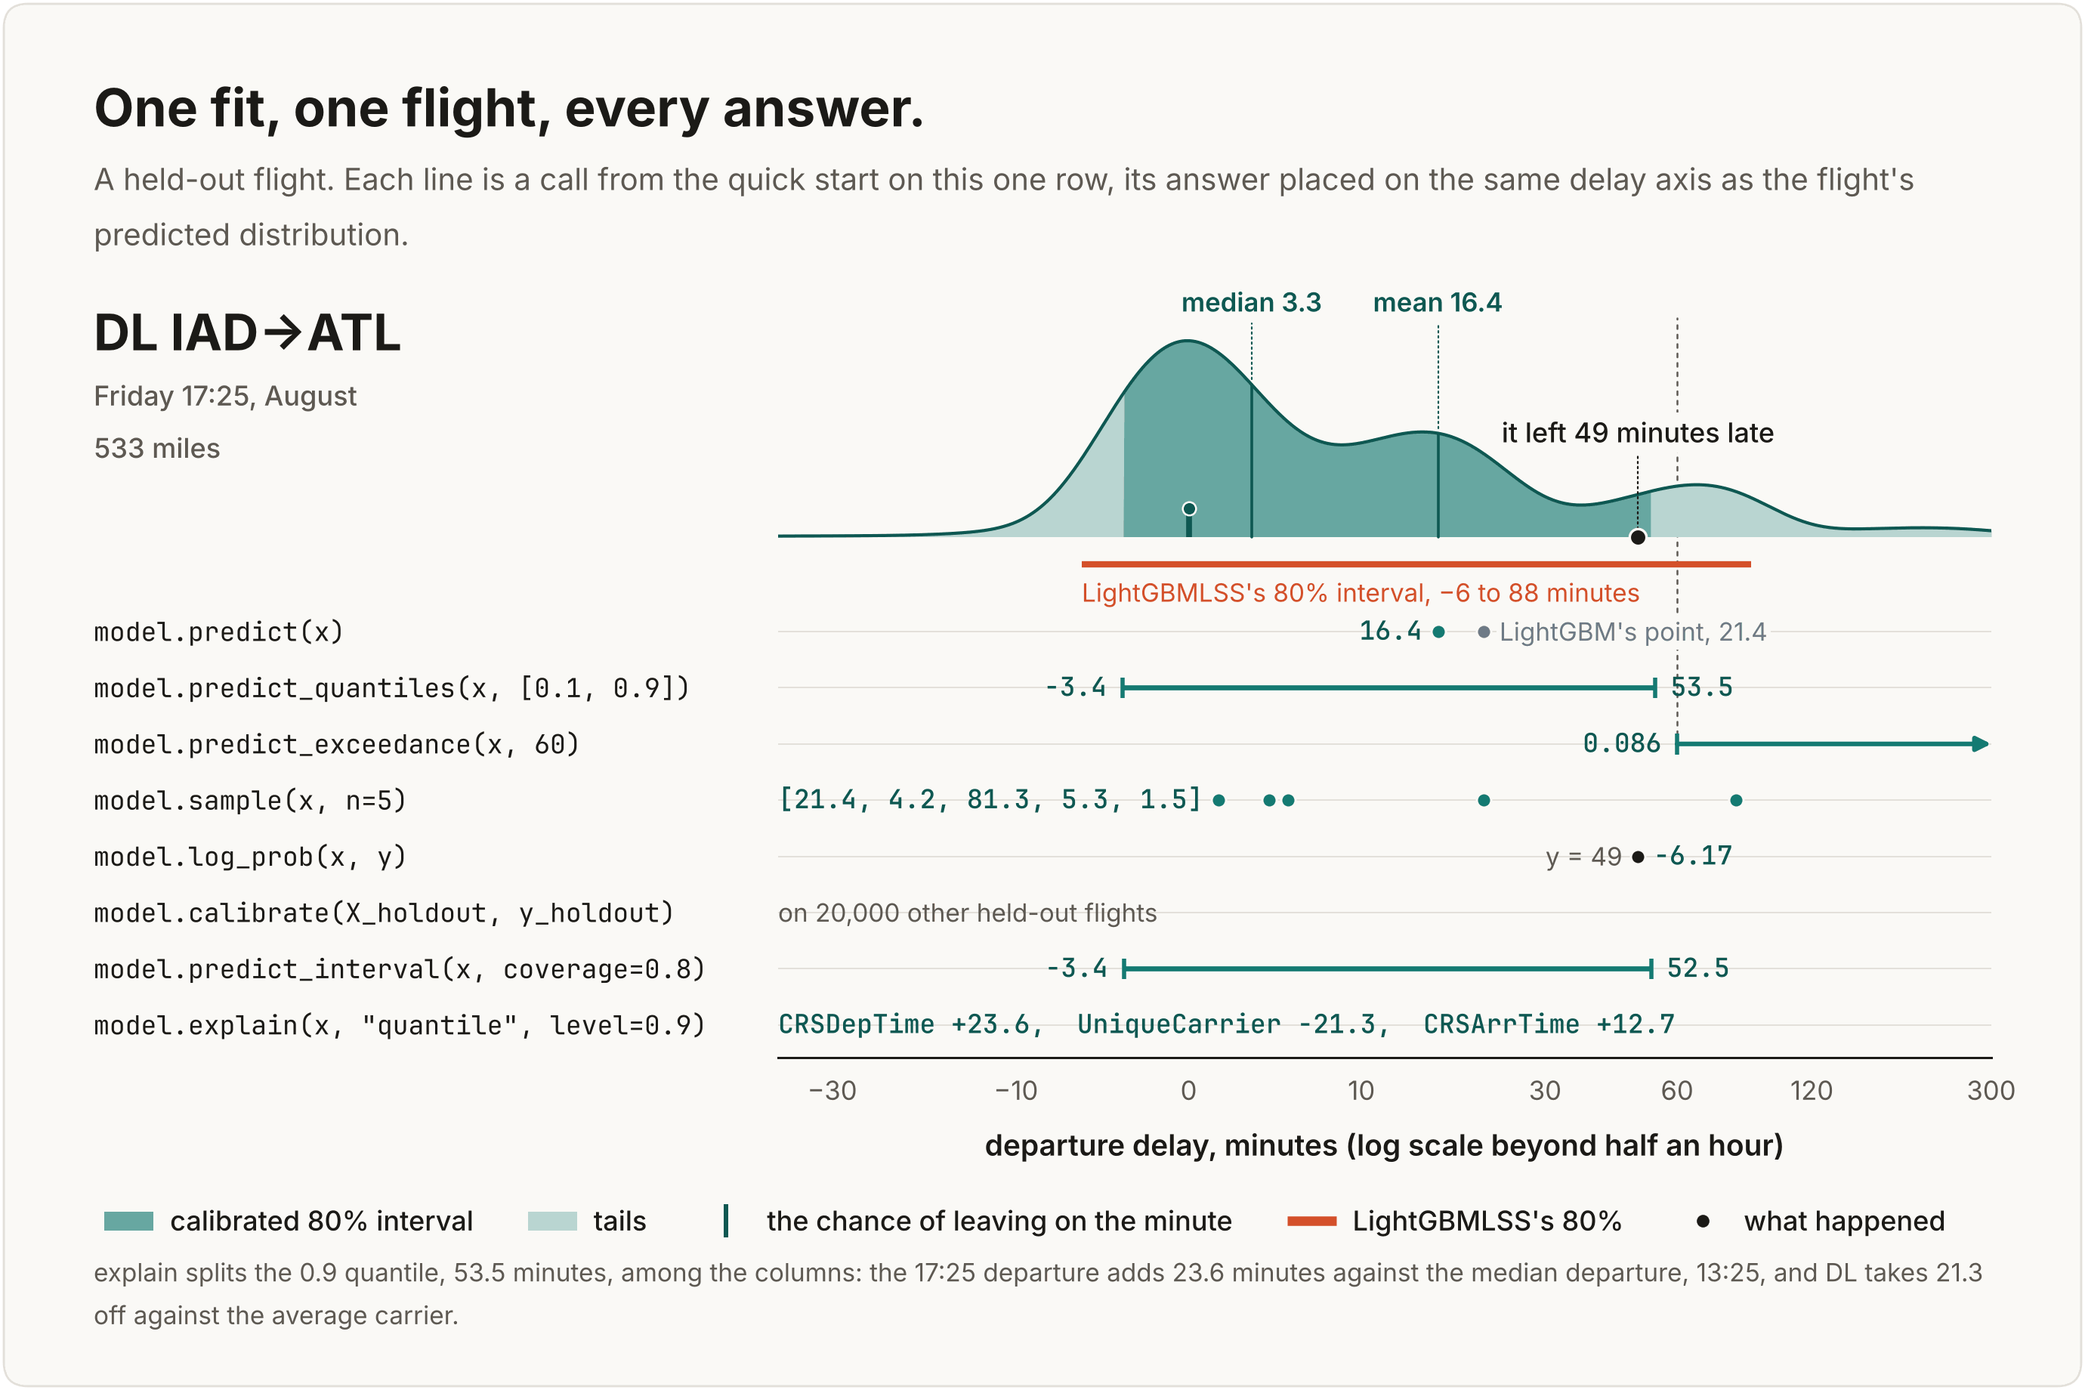
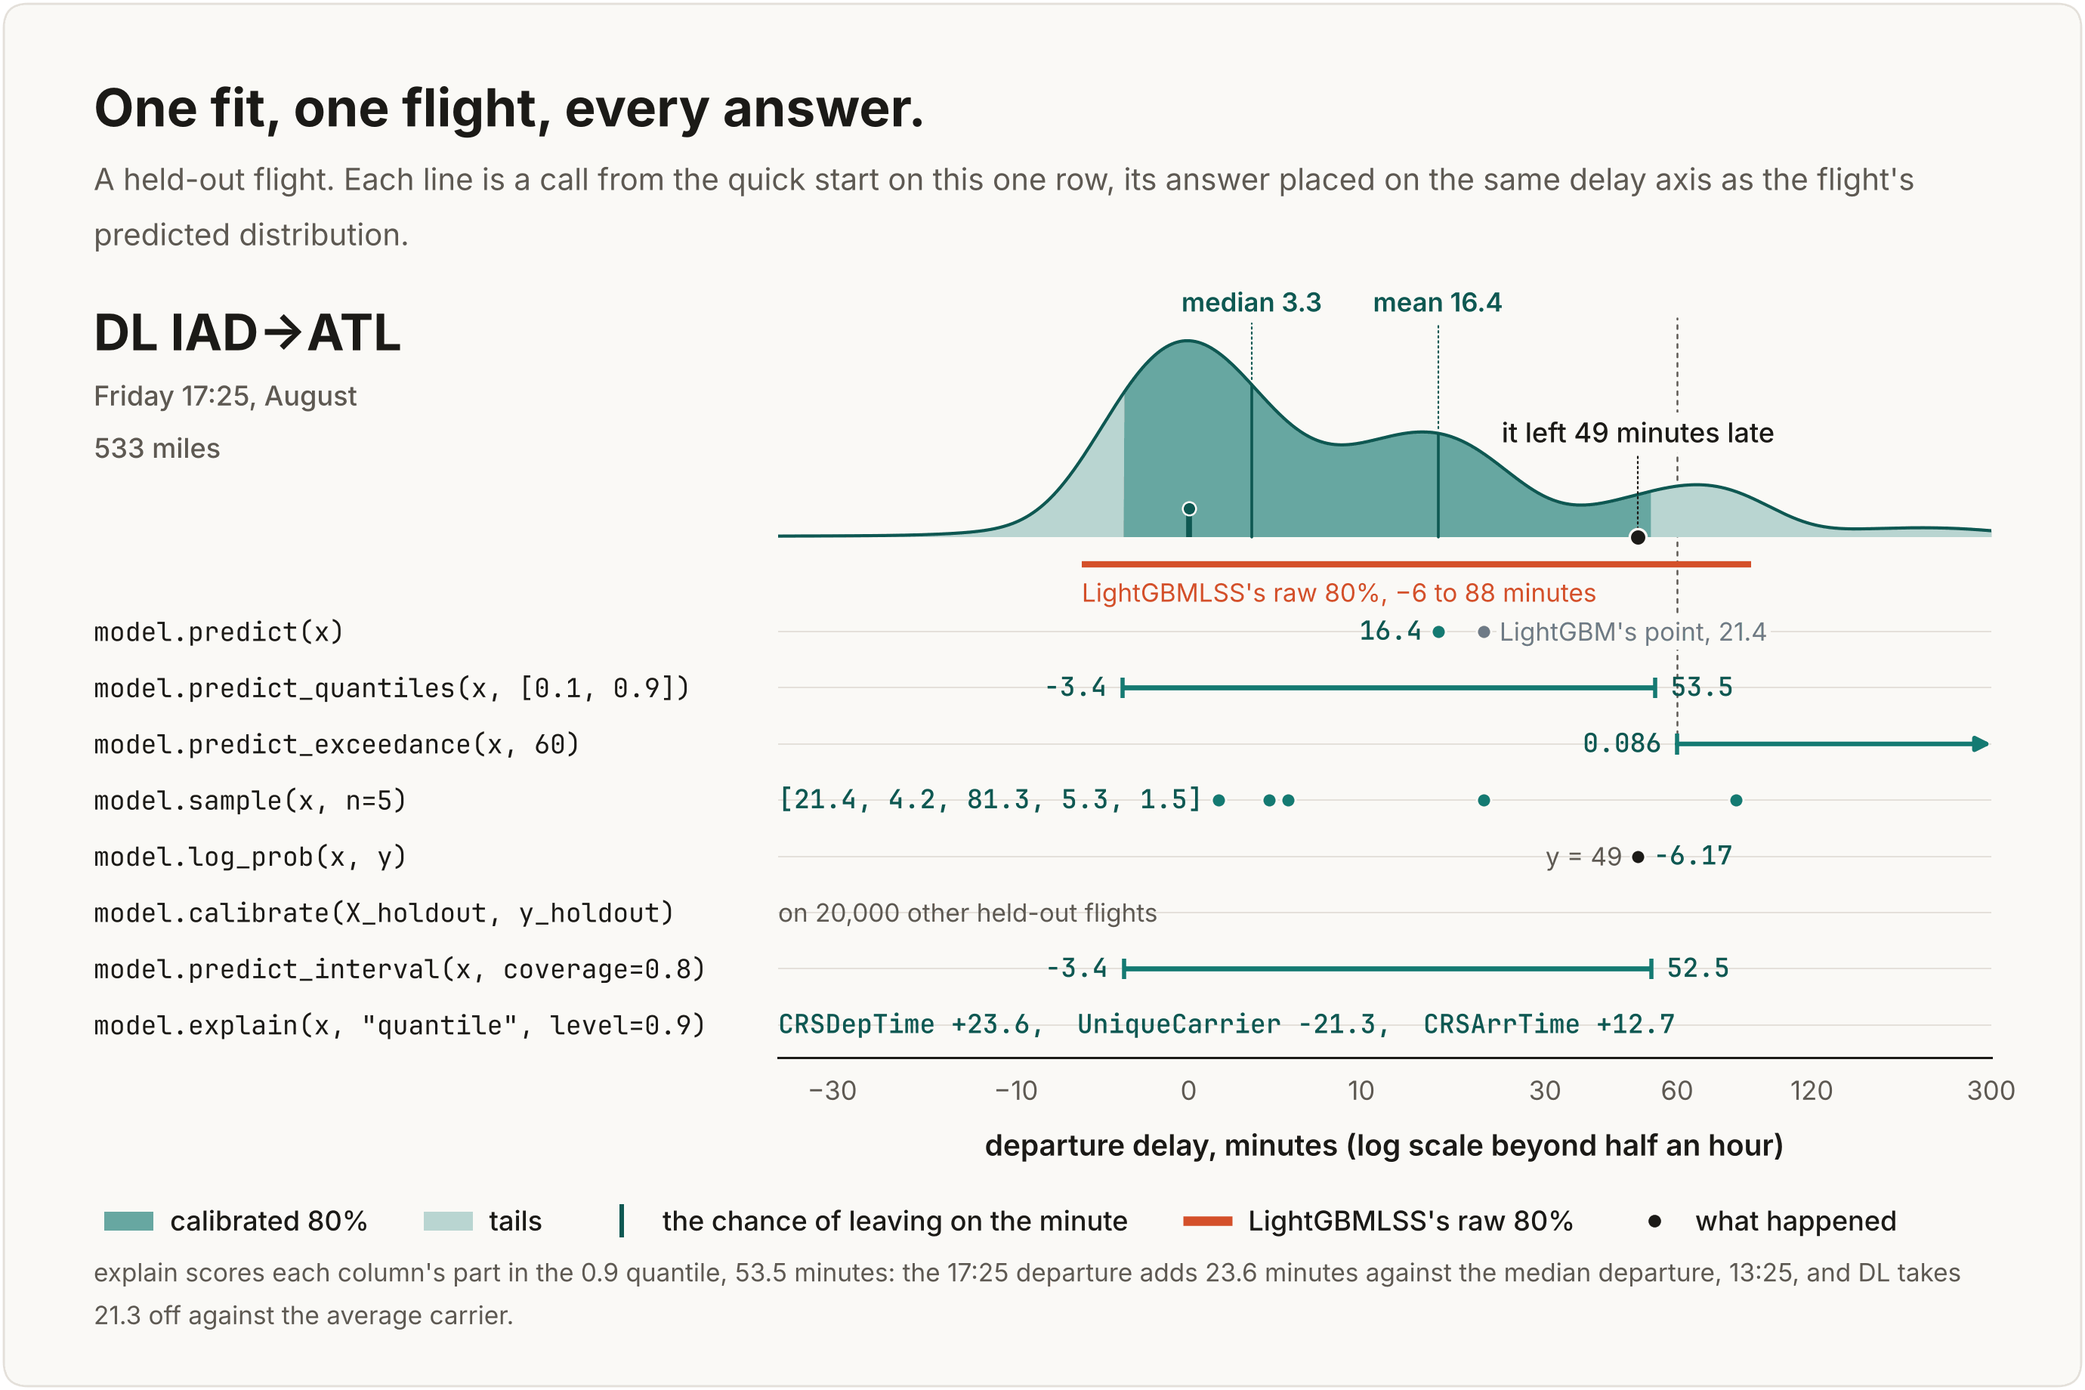
README hero, card, and scoreboard: review fixes
- Hero: the subtitle names the years (1987 to 2008); the footer only says
  where the scores come from, so the caption carries each number once.
- One-flight card: LightGBMLSS's interval is marked raw beside Ashlar's
  calibrated one; the explain footer no longer says the columns split the
  quantile (a categorical column's part is occlusion, outside the sum).
- Scoreboard: the footer states the tie rule (one split under 0.5% is grey)
  and drops the unqualified speed line.
- Large tables: LightGBMLSS's Gaussian and Student-t on release years and
  Zurich; a dagger marks seconds from seed 0's shared-laptop runs, and the
  intro gives the thread counts, so times compare only between unmarked rows.

Claude-Session: https://claude.ai/code/session_01Ut1RAi6KqssJKqes3JJ4ZU

Changed region(s): [[0.0312, 0.8674, 0.9348, 0.9603], [0.6232, 0.4027, 0.779, 0.4337]]

diff --git a/examples/readme/hero_flights.py b/examples/readme/hero_flights.py
@@ -780,7 +780,11 @@ def legend(fig, k, items, *, line: int):
 
 
 def p60_errors(bins, least: int = 1000) -> float:
-    """The largest gap, in points, between predicted and observed P(delay > 60) over bins of ``least`` flights."""
+    """The largest gap, in points, between predicted and observed P(delay > 60) over bins of ``least`` flights.
+
+    The README's "within 0.6 points ... against 8.3": ``p60_errors(summary["scores"]["ashlar"]["p60_bins"])``
+    and ``p60_errors(lightgbmlss["p60_bins"])``.
+    """
     return max(abs(b["predicted"] - b["observed"]) * 100 for b in bins if b["flights"] >= least)
 
 
@@ -788,11 +792,9 @@ def draw(folder: Path = ARTIFACTS) -> None:
     import style as k
 
     summary, pool, _card = load(folder)
-    other, theirs = load_baseline(folder)
+    other, _ = load_baseline(folder)
     if not np.array_equal(other["row"], pool["row"]):
         raise SystemExit("lightgbmlss.npz is not in pool.npz's order: rerun the baseline stage")
-    ours = summary["scores"]["ashlar"]
-    exact = ours["exact_quantiles"]  # the drawn 80% is predict_quantiles' 0.1 to 0.9, as LightGBMLSS's is
     picks = pick_ridges(pool)
     u = np.linspace(warp(X_LO), warp(X_HI), 1200)
     densities = np.stack([warped_density(pool, i, u) for i in picks])
@@ -801,7 +803,8 @@ def draw(folder: Path = ARTIFACTS) -> None:
 
     fig = k.card(
         "Every flight gets its own distribution.",
-        f"Airline delay: {summary['training_rows'] + summary['test_rows']:,} US flights, schedule only, no weather. "
+        f"Airline delay: {summary['training_rows'] + summary['test_rows']:,} US flights from 1987 to 2008, schedule "
+        "only, no weather. "
         "Each ridge is one held-out flight's predicted departure delay from a single ASRRegressor(task=\"mixture\") "
         "fit, its central 80% solid. Under it, the 80% interval of LightGBMLSS's mixture of three normals for the "
         "same flight, the best tree distribution on this table, and the delay that happened.",
@@ -861,15 +864,9 @@ def draw(folder: Path = ARTIFACTS) -> None:
     legend(fig, k, [("patch", solid, "Ashlar's central 80%"), ("pale", k.TEAL_PALE, "its tails"),
                     ("needle", k.TEAL_DARK, "its chance of leaving on the minute"),
                     ("bar", k.CLAY, "LightGBMLSS's 80%"), ("dot", k.INK, "what happened")], line=2)
-    minutes = {key: round((value or 0) / 60) for key, value in (("ours", summary["seconds"]["ashlar"]),
-                                                                ("theirs", theirs.get("benchmark", {}).get("seconds")))}
-    k.footnote(fig, f"On {summary['scored_rows']:,} held-out flights, CRPS {ours['crps']:.2f} against LightGBMLSS's "
-                    f"{theirs['crps']:.2f}; 80% intervals held {k.pct(exact['coverage80'], 1)} at "
-                    f"{exact['width80']:.0f} minutes wide against {k.pct(theirs['coverage80'], 1)} at "
-                    f"{theirs['width80']:.0f}; {P60} within {p60_errors(ours['p60_bins']):.1f} points of the observed "
-                    f"rate in every bin of 1,000 flights or more, against {p60_errors(theirs['p60_bins']):.1f}. "
-                    f"One fit took {minutes['ours']} minutes on a laptop CPU, LightGBMLSS's {minutes['theirs']}.",
-               line=0)
+    # The README's caption carries the scores; the footer says only where they come from.
+    k.footnote(fig, f"One split, seed 0: both models fitted on {summary['training_rows']:,} flights and scored on "
+                    f"{summary['scored_rows']:,} held-out ones. Every number is in docs/benchmarks.md.", line=0)
     k.save(fig, NAME)
 
 

diff --git a/examples/readme/one_flight.py b/examples/readme/one_flight.py
@@ -8,7 +8,7 @@ largest actual delay that its calibrated 80% interval still holds.
 
 The top panel is that flight's predictive density on the hero's delay axis, with
 the calibrated 80% interval solid, the point mass at zero (leaving on the minute) as a
-stem, the 80% interval of LightGBMLSS's mixture of three normals (the best tree
+stem, the raw (uncalibrated) 80% interval of LightGBMLSS's mixture of three normals (the best tree
 distribution on this table) as a clay bar, and the delay that happened. Under it, each call of the quick start on that one row, in order, with
 its answer placed on the same axis; LightGBM's point sits beside ``predict``.
 
@@ -114,7 +114,7 @@ def draw(folder: Path = h.ARTIFACTS) -> None:
         k.value(ax, ux, label_y, label, k.TEAL_DARK, ha="center", va="bottom", size=12.5)
     y_bar = -0.42
     ax.plot([h.warp(lss_lo), h.warp(lss_hi)], [y_bar, y_bar], color=k.CLAY, lw=3.0, solid_capstyle="butt", zorder=5)
-    ax.text(h.warp(lss_lo), y_bar - 0.2, f"LightGBMLSS's 80% interval, {out(lss_lo, 0)} to "
+    ax.text(h.warp(lss_lo), y_bar - 0.2, f"LightGBMLSS's raw 80%, {out(lss_lo, 0)} to "
             f"{out(lss_hi, 0)} minutes".replace("-", "−"), fontproperties=k.F.small, color=k.CLAY, ha="left", va="top")
     ax.scatter([h.warp(actual)], [0], s=64, color=k.INK, edgecolor=k.CARD, lw=1.2, zorder=10, clip_on=False)
     note_y = max(height_at(x) for x in np.linspace(actual, X_HI, 50)) + 0.55
@@ -219,14 +219,15 @@ def draw(folder: Path = h.ARTIFACTS) -> None:
             f"{MONTHS[int(x_of('month')) - 1]}\n{int(x_of('distance')):,} miles", transform=ident,
             fontproperties=k.F.label, color=k.MUTED, ha="left", va="top", linespacing=1.5)
 
-    h.legend(fig, k, [("patch", solid, "calibrated 80% interval"), ("pale", k.TEAL_PALE, "tails"),
+    h.legend(fig, k, [("patch", solid, "calibrated 80%"), ("pale", k.TEAL_PALE, "tails"),
                       ("needle", k.TEAL_DARK, "the chance of leaving on the minute"),
-                      ("bar", k.CLAY, "LightGBMLSS's 80%"), ("dot", k.INK, "what happened")], line=2)
+                      ("bar", k.CLAY, "LightGBMLSS's raw 80%"), ("dot", k.INK, "what happened")], line=2)
     names = explained["feature_names"]
     dep = summary["columns"]["departure"]
     base = explained["numeric_baseline"].get(dep)
     carrier_value = values[names.index(summary["columns"]["carrier"])]
-    k.footnote(fig, f"explain splits the 0.9 quantile, {out(q90)} minutes, among the columns: the {departure} departure "
+    # Not "splits": numeric columns' attributions sum to the prediction minus the baseline, a carrier's (occlusion) does not.
+    k.footnote(fig, f"explain scores each column's part in the 0.9 quantile, {out(q90)} minutes: the {departure} departure "
                     f"adds {values[names.index(dep)]:.1f} minutes against the median departure, "
                     f"{h.clock(base, fmt)}, and {x_of('carrier')} takes {abs(carrier_value):.1f} off against the "
                     "average carrier.", line=0)

diff --git a/examples/benchmark_large.py b/examples/benchmark_large.py
@@ -773,6 +773,8 @@ METRIC_NAMES = {
 }
 
 
+SHARED = "†"  # a time from seed 0's first runs, which shared the laptop with each tree on one thread
+
 # NGBoost's seed-0 CRPS on airline delay (90.7) disagrees with its NLL (4.76): held out of the report until the
 # diagnostic runs (variants diag-lr0.05, lr0.01, leaf100) show why.
 HELD = ("ngboost",)
@@ -812,10 +814,13 @@ def report(out, variant_for=None, seeds=None, held=HELD):
                     cells.append(f"{values.iloc[0]:.4g}")
                 else:
                     cells.append(f"{values.mean():.4g} ± {values.std(ddof=0):.2g}")
-            # Seed 0's runs shared the laptop, each tree on one thread. Seeds 1 and 2 and LightGBMLSS ran one
-            # job at a time, the trees on six threads, so the fastest seed is the fairest time.
-            seconds = group["seconds"].min()
-            print(f"| {LABELS[model]} | {len(group)} | " + " | ".join(cells) + f" | {seconds:.0f} |")
+            # Seed 0's first runs shared the laptop, each tree on one thread. Seeds 1 and 2, LightGBMLSS, and
+            # NGBoost ran one job at a time, the trees on six threads, so the fastest seed is the fairest time;
+            # a time from those shared seed-0 runs is marked.
+            fastest = group.loc[group["seconds"].idxmin()]
+            shared = int(fastest["seed"]) == 0 and not model.startswith(("lightgbmlss_", "ngboost"))
+            print(f"| {LABELS[model]} | {len(group)} | " + " | ".join(cells) +
+                  f" | {fastest['seconds']:.0f}{SHARED if shared else ''} |")
 
 
 def done_runs(out):

diff --git a/examples/readme/scoreboard.py b/examples/readme/scoreboard.py
@@ -272,9 +272,9 @@ def draw() -> None:
     for group, gy in heads:
         left.text(-0.03, gy + 0.18, group.upper(), transform=left.get_yaxis_transform(), fontproperties=k.F.small,
                   color=k.MUTED, ha="right", va="center")
-    k.footnote(fig, "The dot is the mean change over the splits and the whisker one standard deviation; grey where it "
-                    f"crosses zero. {best_distributions(distribution)} Ashlar trains in minutes on a laptop CPU, where "
-                    "LightGBM takes seconds to minutes. Every number is in docs/benchmarks.md, Large tables.", line=0)
+    k.footnote(fig, "The dot is the mean change over the splits and the whisker one standard deviation; grey where the "
+                    f"whisker crosses zero or, with one split, where the change is under {TIE:g}%. "
+                    f"{best_distributions(distribution)} Every number is in docs/benchmarks.md, Large tables.", line=0)
     k.save(fig, "scoreboard")
     for panel, items in (("error", error), ("distribution", distribution)):
         for item in items.values():

diff --git a/docs/benchmarks.md b/docs/benchmarks.md
@@ -73,18 +73,20 @@ python examples/benchmark_uncertainty.py --stage report
 
 ## Large tables
 
-Seeds 1 and 2 are still running, so the Splits column says how many random splits each model has finished; a cell over several is the mean ± the standard deviation across them, and a comparison between models with different splits is rough. The seconds are each model's fastest split's. Seed 0's runs shared the laptop, each tree on one thread. Seeds 1 and 2, and LightGBMLSS, ran one job at a time: Ashlar on every core, the trees and LightGBMLSS on six threads. A model with only seed 0 so far reads slow.
+Seeds 1 and 2 are still running, so the Splits column says how many random splits each model has finished; a cell over several is the mean ± the standard deviation across them, and a comparison between models with different splits is rough. The seconds are each model's fastest split's. A † marks a time from seed 0's first runs, which shared the laptop, with each tree on one thread. The other times ran one job at a time, Ashlar on all 12 cores and the trees and LightGBMLSS on six threads, so compare times only between unmarked rows. On Zurich, LightGBMLSS's Student-t ran to the 4,000-tree cap with a median of 3.7 million degrees of freedom: it became a Gaussian.
 
 ### Zurich public transport, delay, 2,000,000 of 5,465,575 rows
 
 | Model | Splits | RMSE | MAE | CRPS | NLL | 80% coverage | 80% width | Seconds |
 |---|---:|---:|---:|---:|---:|---:|---:|---:|
-| Ashlar, default | 1 | 3.052 | 2.56 | — | — | — | — | 521 |
-| Ashlar, `task="mixture"` | 1 | 3.05 | 2.558 | 1.621 | 2.005 | 79% | 8.03 | 536 |
-| LightGBM | 1 | 3.047 | 2.554 | 1.747 | 2.534 | 79% | 7.803 | 35 |
-| XGBoost | 1 | 3.047 | 2.553 | 1.747 | 2.534 | 79% | 7.804 | 59 |
-| CatBoost | 1 | 3.047 | 2.553 | 1.747 | 2.534 | 79% | 7.804 | 351 |
-| CatBoost, `RMSEWithUncertainty` | 1 | 3.047 | 2.554 | 1.742 | 2.531 | 80% | 7.781 | 552 |
+| Ashlar, default | 1 | 3.052 | 2.56 | — | — | — | — | 521† |
+| Ashlar, `task="mixture"` | 1 | 3.05 | 2.558 | 1.621 | 2.005 | 79% | 8.03 | 536† |
+| LightGBM | 1 | 3.047 | 2.554 | 1.747 | 2.534 | 79% | 7.803 | 35† |
+| XGBoost | 1 | 3.047 | 2.553 | 1.747 | 2.534 | 79% | 7.804 | 59† |
+| CatBoost | 1 | 3.047 | 2.553 | 1.747 | 2.534 | 79% | 7.804 | 351† |
+| CatBoost, `RMSEWithUncertainty` | 1 | 3.047 | 2.554 | 1.742 | 2.531 | 80% | 7.781 | 552† |
+| LightGBMLSS, Gaussian | 1 | 3.047 | 2.553 | 1.742 | 2.531 | 80% | 7.781 | 85 |
+| LightGBMLSS, Student-t | 1 | 3.079 | 2.516 | 1.738 | 2.511 | 79% | 7.393 | 732 |
 | LightGBMLSS, mixture of 3 Gaussians | 1 | 3.101 | 2.382 | 1.652 | 2.055 | 75% | 6.961 | 745 |
 
 ### Airline delay, departure delay in minutes, 2,000,000 of 10,000,000 rows
@@ -105,15 +107,15 @@ Seeds 1 and 2 are still running, so the Splits column says how many random split
 
 | Model | Splits | RMSE | MAE | CRPS | NLL | 80% coverage | 80% width | Seconds |
 |---|---:|---:|---:|---:|---:|---:|---:|---:|
-| Ashlar, default | 1 | 1.977 | 0.872 | — | — | — | — | 190 |
-| Ashlar, `tabm_piecewise()` | 1 | 1.979 | 0.8747 | — | — | — | — | 924 |
-| Ashlar, `task="mixture"` | 1 | 1.977 | 0.8641 | 0.5935 | -1.973 | 82% | 2.814 | 520 |
+| Ashlar, default | 1 | 1.977 | 0.872 | — | — | — | — | 190† |
+| Ashlar, `tabm_piecewise()` | 1 | 1.979 | 0.8747 | — | — | — | — | 924† |
+| Ashlar, `task="mixture"` | 1 | 1.977 | 0.8641 | 0.5935 | -1.973 | 82% | 2.814 | 520† |
 | LightGBM | 3 | 1.799 ± 0.033 | 0.6503 ± 0.016 | 0.6755 ± 0.013 | 1.992 ± 0.0098 | 95% | 4.644 ± 0.2 | 18 |
 | XGBoost | 3 | 1.951 ± 0.062 | 0.6594 ± 0.011 | 0.7075 ± 0.019 | 2.083 ± 0.024 | 95% | 4.949 ± 0.25 | 48 |
-| CatBoost | 1 | 1.758 | 0.6414 | 0.6633 | 1.995 | 95% | 4.528 | 1546 |
-| CatBoost, `RMSEWithUncertainty` | 1 | 1.745 | 0.6455 | 0.4647 | 0.7008 | 83% | 1.952 | 2345 |
-| RealMLP (pytabkit) | 1 | 1.934 | 0.892 | — | — | — | — | 4044 |
-| TabM (pytabkit) | 1 | 1.798 | 0.7327 | — | — | — | — | 15169 |
+| CatBoost | 1 | 1.758 | 0.6414 | 0.6633 | 1.995 | 95% | 4.528 | 1546† |
+| CatBoost, `RMSEWithUncertainty` | 1 | 1.745 | 0.6455 | 0.4647 | 0.7008 | 83% | 1.952 | 2345† |
+| RealMLP (pytabkit) | 1 | 1.934 | 0.892 | — | — | — | — | 4044† |
+| TabM (pytabkit) | 1 | 1.798 | 0.7327 | — | — | — | — | 15169† |
 
 ### Year prediction (MSD), release year, 515,345 rows
 
@@ -125,6 +127,8 @@ Seeds 1 and 2 are still running, so the Splits column says how many random split
 | XGBoost | 2 | 8.686 ± 0.024 | 6.085 ± 0.00029 | 4.605 ± 0.0034 | 3.581 ± 0.0026 | 85% | 22.13 ± 0.097 | 63 |
 | CatBoost | 2 | 8.746 ± 0.03 | 6.118 ± 0.0051 | 4.63 ± 0.0067 | 3.587 ± 0.0032 | 85% | 22.3 ± 0.1 | 49 |
 | CatBoost, `RMSEWithUncertainty` | 2 | 8.846 ± 0.037 | 6.189 ± 0.0082 | 4.399 ± 0.008 | 3.41 ± 0.0061 | 83% | 18.99 ± 0.017 | 42 |
+| LightGBMLSS, Gaussian | 1 | 9.103 | 6.139 | 4.424 | 3.41 | 83% | 19.28 | 33 |
+| LightGBMLSS, Student-t | 1 | 9.521 | 6.043 | 4.457 | 3.334 | 79% | 16.58 | 65 |
 | LightGBMLSS, mixture of 3 Gaussians | 1 | 8.861 | 5.996 | 4.186 | 3.188 | 76% | 16.72 | 185 |
 
 ### Higgs, signal against background, 2,000,000 of 5,100,000 rows
@@ -149,19 +153,19 @@ Seeds 1 and 2 are still running, so the Splits column says how many random split
 
 | Model | Splits | Accuracy | AUC | Log loss | Seconds |
 |---|---:|---:|---:|---:|---:|
-| Ashlar, default | 1 | 0.6601 | 0.71 | 0.6143 | 267 |
-| LightGBM | 1 | 0.6655 | 0.7185 | 0.6085 | 13 |
-| XGBoost | 1 | 0.6642 | 0.7181 | 0.6089 | 14 |
-| CatBoost | 1 | 0.6675 | 0.7215 | 0.6062 | 1011 |
+| Ashlar, default | 1 | 0.6601 | 0.71 | 0.6143 | 267† |
+| LightGBM | 1 | 0.6655 | 0.7185 | 0.6085 | 13† |
+| XGBoost | 1 | 0.6642 | 0.7181 | 0.6089 | 14† |
+| CatBoost | 1 | 0.6675 | 0.7215 | 0.6062 | 1011† |
 
 ### Click prediction, clicked or not, 1,997,410 rows
 
 | Model | Splits | Accuracy | AUC | Log loss | Seconds |
 |---|---:|---:|---:|---:|---:|
-| Ashlar, default | 1 | 0.8421 | 0.7382 | 0.3943 | 365 |
-| LightGBM | 1 | 0.8444 | 0.7544 | 0.3858 | 132 |
-| XGBoost | 1 | 0.8442 | 0.7557 | 0.3852 | 188 |
-| CatBoost | 1 | 0.8435 | 0.7502 | 0.3879 | 726 |
+| Ashlar, default | 1 | 0.8421 | 0.7382 | 0.3943 | 365† |
+| LightGBM | 1 | 0.8444 | 0.7544 | 0.3858 | 132† |
+| XGBoost | 1 | 0.8442 | 0.7557 | 0.3852 | 188† |
+| CatBoost | 1 | 0.8435 | 0.7502 | 0.3879 | 726† |
 
 ### The README's airline figure
 
